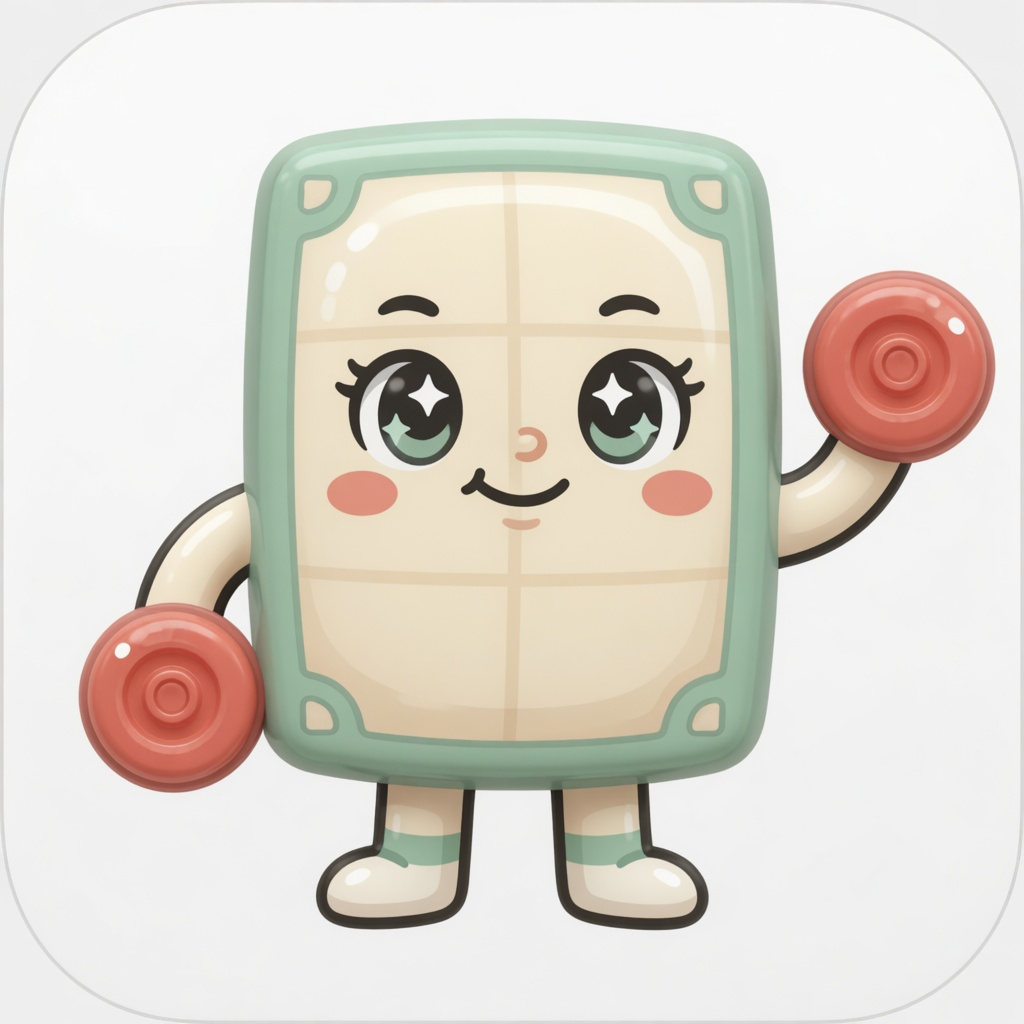
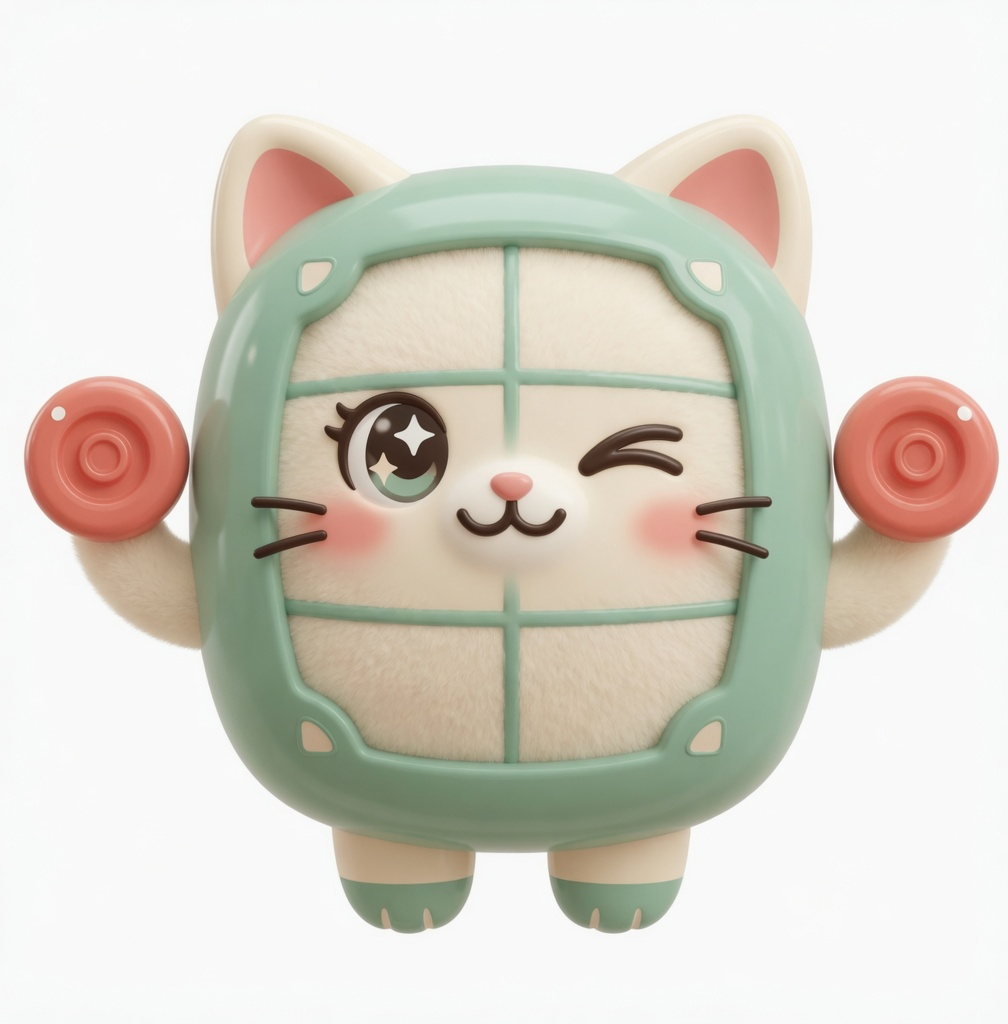
Redesign Snapu as a cat with mint window body and magnet hands

diff --git a/docs/characters/README.md b/docs/characters/README.md
@@ -1,30 +1,20 @@
-# Snapu — official character
+# Snapu — official character (cat)
 
-**Snapu** is HalfSnap’s brand kyara (Japanese product-mascot style).
+**Snapu** is HalfSnap’s brand kyara — a **cat** in Japanese product-mascot style.
 
 ## Official assets
 
 | File | Use |
 |------|-----|
-| **`snapu.jpg`** | Hero / marketing (Imagine polish from your pick) |
-| **`snapu-icon.jpg`** | Icon-friendly front pose |
-| **`snapu-source.jpg`** | Your chosen reference (source of truth) |
+| **`snapu.jpg`** | Hero — mint window-body cat + coral magnets |
+| **`snapu-icon.jpg`** | Alt cat (face-forward) |
+| `snapu-cat-a.jpg` / `snapu-cat-b.jpg` | Same two variants |
+| `snapu-source.jpg` | Original non-cat window pick (pre-cat) |
+| `snapu-window.jpg` | Window mascot before cat redesign |
 
 ### Design
-- Mint-green **window pane** body + cream face grid  
-- Big sparkly eyes, rosy cheeks  
-- **Coral suction/magnet hands** (snap-to-edge)  
-- Cream limbs, mint socks, little boots  
+- **Cat** ears, whiskers, sparkly eyes  
+- Mint-green **window** body + cream face  
+- **Coral magnet / suction hands** (snap)  
 
-**Personality:** tidy, strong little snap spirit — *click* windows into place.  
 **Tagline:** *Snapu — windows that click into place.*
-
-Product can stay **HalfSnap** or rebrand to **Snapu** later.
-
-## Not chosen
-
-| File | Notes |
-|------|--------|
-| `snapu-split.jpg` | Peach/blue split blob — earlier favorite, replaced |
-| `snapu-magnet.jpg` | Earlier magnet exploration |
-| `half-kun.jpg` / `mado-chan.jpg` / `snappei.jpg` / `docko.jpg` | Other concepts |
